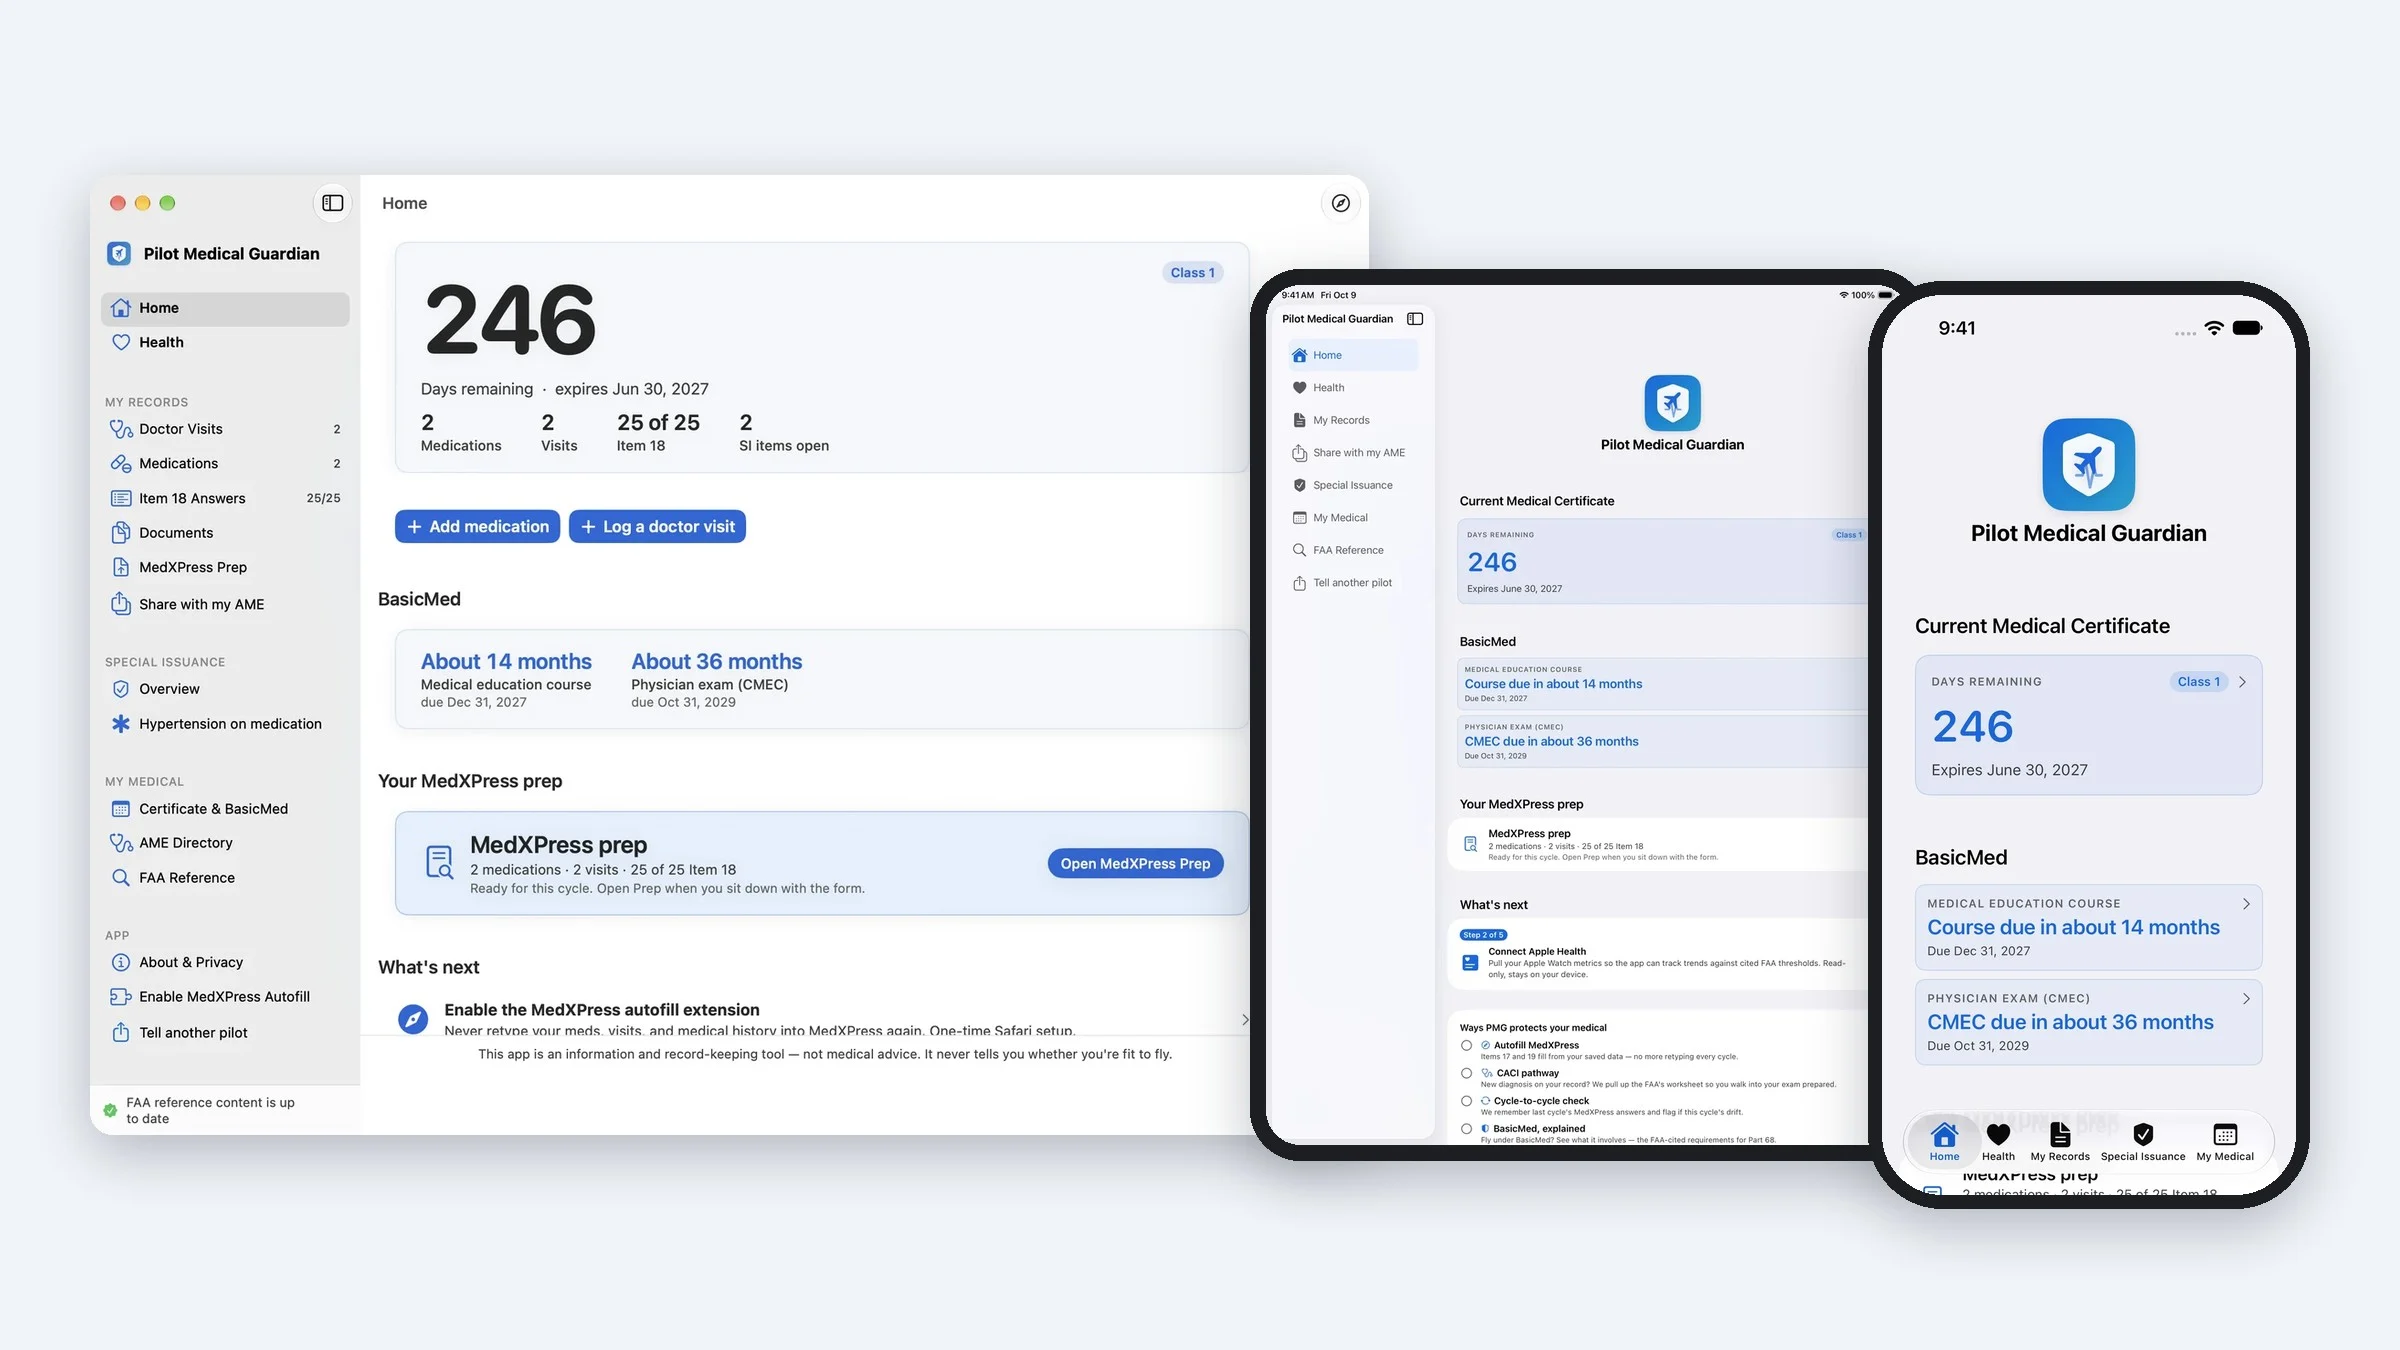
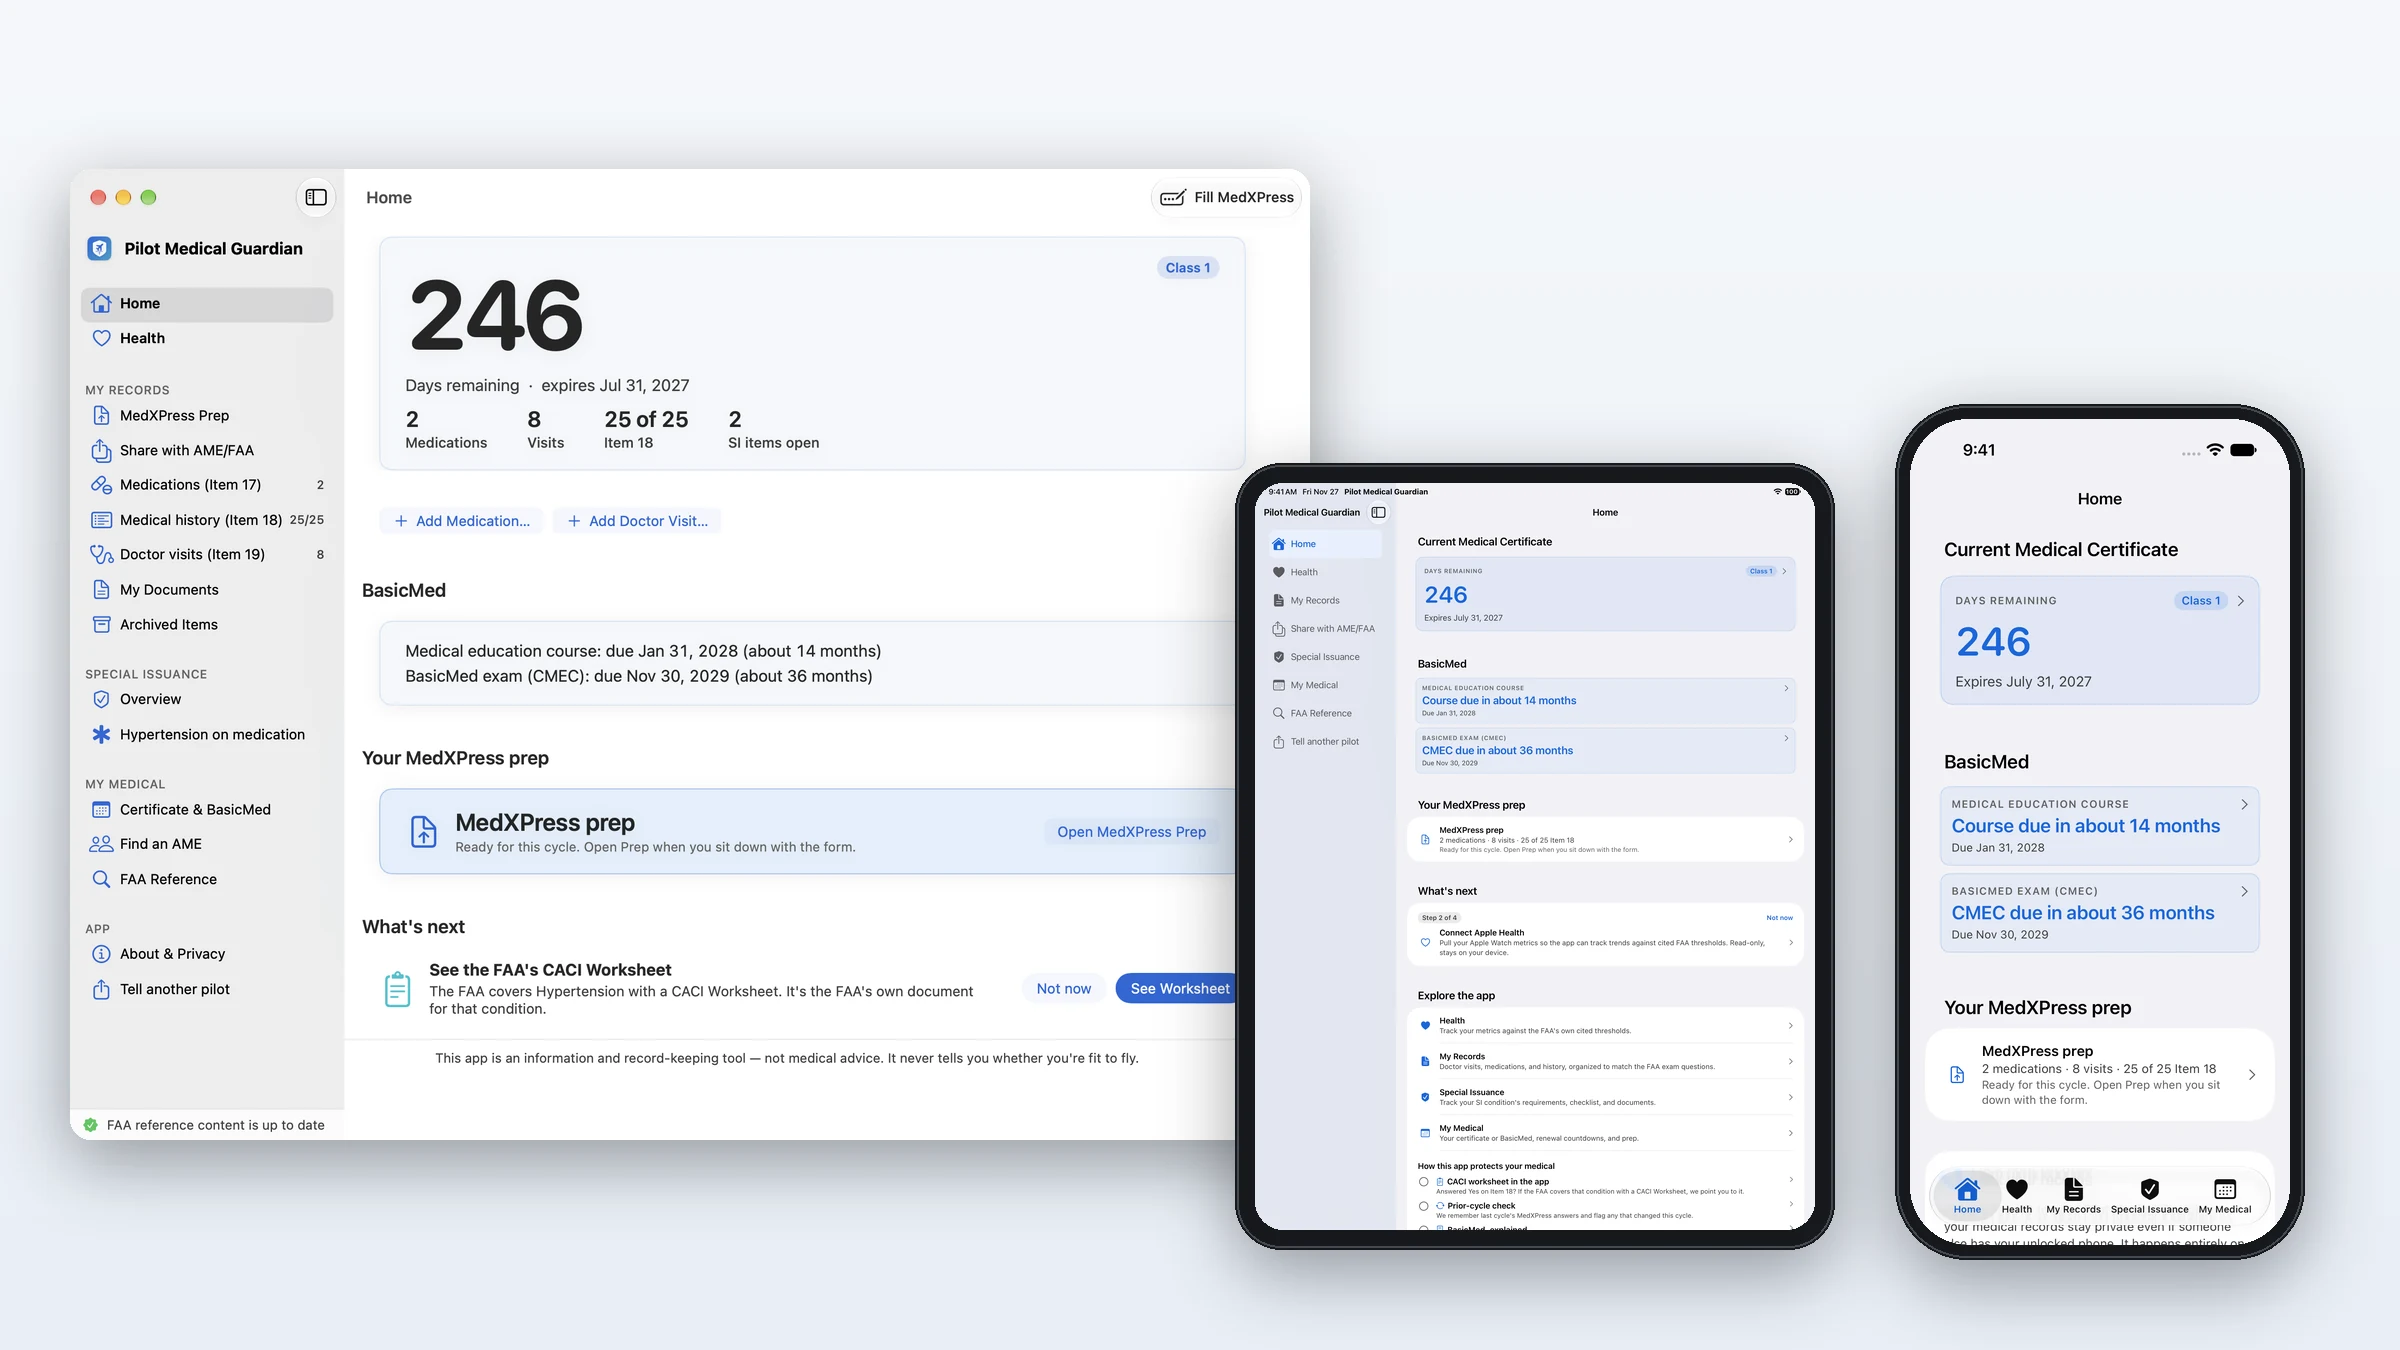
Homepage hero: fresh 3-device composite (Mac 1.4.1, iPad + iPhone 2.5.1, Home, 246 days on all three, captured 11/27 by screenshots-next); builder + raws kept

diff --git a/index.html b/index.html
@@ -124,7 +124,7 @@
         <p class="hero2-qr"><img src="/assets/qr-app-store.svg" width="92" height="92" alt="QR code that opens Pilot Medical Guardian on the App Store" loading="lazy"><span>On a computer? Point your iPhone or iPad camera here to get the app.</span></p>
       </div>
       <div class="hero2-media">
-        <figure class="hero2-devices-img"><img src="/screenshots/devices-home.webp?v=20261126" width="2400" height="1350" loading="eager" fetchpriority="high" decoding="async" alt="Pilot Medical Guardian on Mac, iPad and iPhone, each on the Home screen showing the days left on the medical certificate"><figcaption>Mac, iPad and iPhone. Sample data.</figcaption></figure>
+        <figure class="hero2-devices-img"><img src="/screenshots/devices-home.webp?v=20261127" width="2400" height="1350" loading="eager" fetchpriority="high" decoding="async" alt="Pilot Medical Guardian on Mac, iPad and iPhone, each on the Home screen showing the days left on the medical certificate"><figcaption>Mac, iPad and iPhone. Sample data.</figcaption></figure>
       </div>
     </div>
   </section>

diff --git a/screenshots/build-hero-devices.py b/screenshots/build-hero-devices.py
@@ -1,0 +1,51 @@
+"""Homepage hero: Mac + iPad + iPhone on the Home screen (same day, same demo data, same countdown).
+Sources: screenshots/hero-raw/*.png (captured 2026-11-27 from iOS 2.5.1 / Mac 1.4.1, 246 days on all three).
+Output: screenshots/devices-home.webp (2400x1350) used by index.html's hero. Run from the repo root."""
+from PIL import Image, ImageDraw, ImageFilter
+import numpy as np, os
+
+R = "screenshots/hero-raw"
+W, H = 2400, 1350
+BASE = 1250  # shared bottom line for the iPad and iPhone
+
+def bg():
+    yv = np.linspace(0.0, 1.0, H)[:, None]
+    top = np.array([246, 248, 251], float); bot = np.array([232, 238, 246], float)
+    a = top[None, None, :] * (1 - yv[:, :, None]) + bot[None, None, :] * yv[:, :, None]
+    return Image.fromarray(np.repeat(a, W, axis=1).astype("uint8")).convert("RGBA")
+
+def rounded(im, radius):
+    m = Image.new("L", im.size, 0)
+    ImageDraw.Draw(m).rounded_rectangle([0, 0, im.width - 1, im.height - 1], radius, fill=255)
+    im = im.convert("RGBA"); im.putalpha(m); return im
+
+def screen(path, w):
+    im = Image.open(path).convert("RGB")
+    return im.resize((w, round(im.height * w / im.width)), Image.LANCZOS)
+
+def framed(path, w, bezel, r_out, r_in):
+    s = rounded(screen(path, w), r_in)
+    body = Image.new("RGBA", (s.width + 2 * bezel, s.height + 2 * bezel), (0, 0, 0, 0))
+    ImageDraw.Draw(body).rounded_rectangle([0, 0, body.width - 1, body.height - 1], r_out, fill=(22, 24, 28, 255))
+    ImageDraw.Draw(body).rounded_rectangle([2, 2, body.width - 3, body.height - 3], r_out - 2, outline=(70, 74, 82, 255), width=2)
+    body.alpha_composite(s, (bezel, bezel))
+    return body
+
+def place(canvas, im, pos, blur=34, alpha=95, dy=22):
+    lay = Image.new("RGBA", canvas.size, (0, 0, 0, 0))
+    a = im.getchannel("A").point(lambda v: int(v * alpha / 255))
+    lay.paste(Image.new("RGBA", im.size, (16, 22, 34, 255)), (pos[0], pos[1] + dy), a)
+    canvas = Image.alpha_composite(canvas, lay.filter(ImageFilter.GaussianBlur(blur)))
+    canvas.alpha_composite(im, pos)
+    return canvas
+
+c = bg()
+mac = rounded(screen(f"{R}/mac-home.png", 1240), 20)
+c = place(c, mac, (70, (H - mac.height) // 2 - 20))
+ipad = framed(f"{R}/ipad-home.png", 560, 20, 46, 28)
+c = place(c, ipad, (1235, BASE - ipad.height))
+phone = framed(f"{R}/iphone-home.png", 380, 15, 72, 58)
+c = place(c, phone, (1895, BASE - phone.height + 10))
+c.convert("RGB").save("screenshots/devices-home.webp", "WEBP", quality=88, method=6)
+c.convert("RGB").save(os.path.join(os.environ.get("TMPDIR", "/tmp"), "devices-home-check.jpg"), quality=80)
+print("wrote screenshots/devices-home.webp", c.size)
